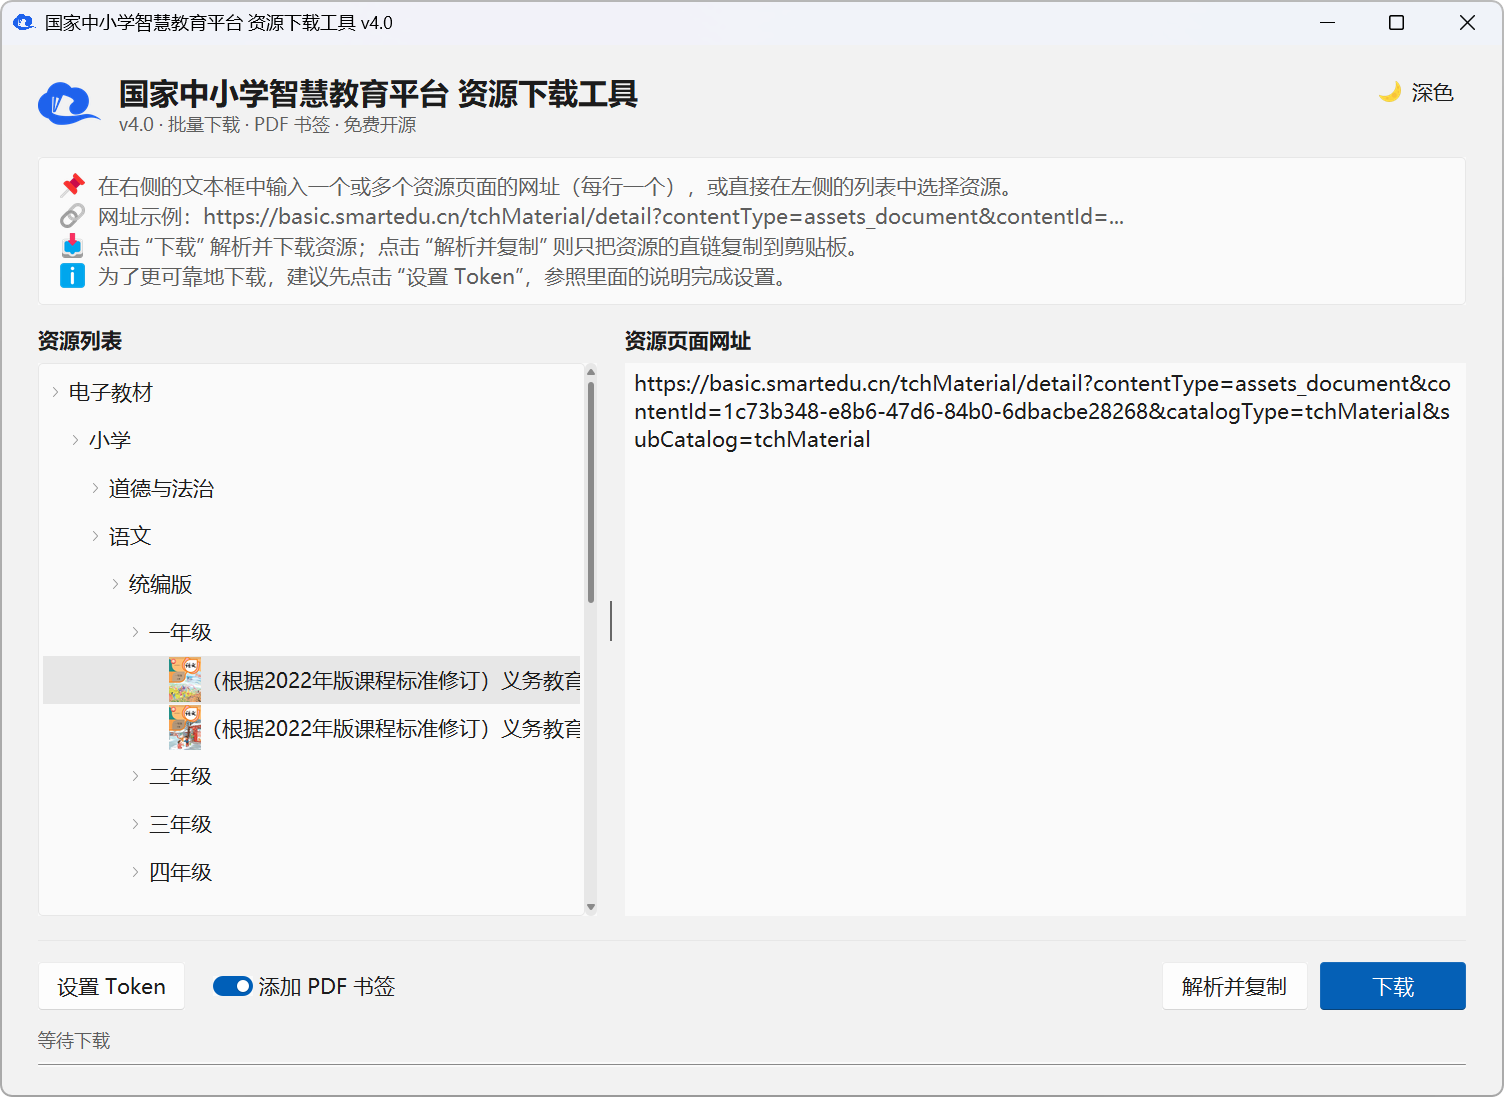
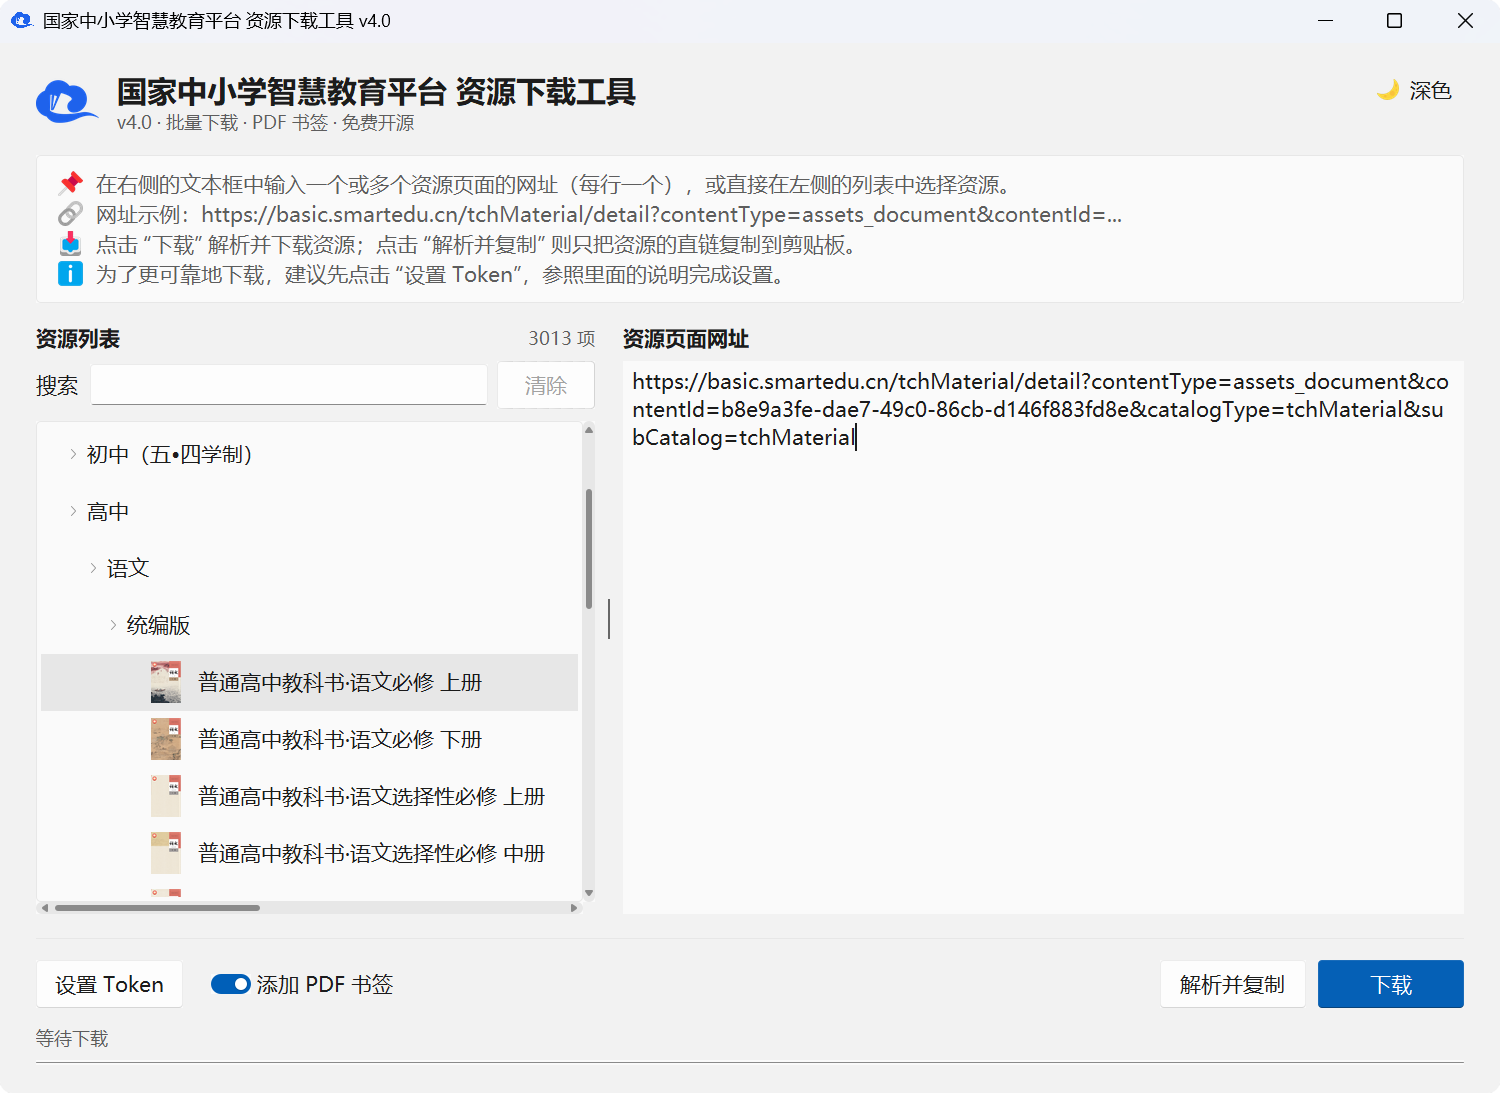
docs(readme): 重排版式、更新截图并补充项目成就
原 README 首屏只有三个静态徽章，没有项目标识与状态信息；内容增长后也缺少
导航入口。本次改动只涉及呈现方式，正文措辞、警告框、致谢与 issue 编号均
保持原样，未删减任何信息。

- 新增居中头部：Logo、一句话简介，以及版本、下载量、Star 数、Python 版本、
  支持平台、许可证徽章，并加入 Trendshift 徽章与快捷导航
- 新增目录。锚点按 GitHub 的生成规则处理：🛠、⚖ 这类带变体选择符的 emoji
  会被剥离图形部分但保留 U+FE0F，因此对应锚点为 #-使用方法、#-免责声明
- 新增「项目成就」章节：2025 年 5 月 GitHub Trending 总榜第 3 名、Trendshift
  Python 日榜第 3 名
- 浅色/深色截图由表格改为并排 <img width="48%">：GitHub 会强制为 markdown
  表格渲染单元格边框，border="0" 亦无效，只有脱离表格才能去掉边框
- 同步更新浅色/深色界面截图
- 常见问题改为 <details> 折叠块，首条默认展开
- 下载与安装方法新增速查表，集中列出各平台的安装命令
- 更新 Star History 的 sealed_token：GitHub 已将 stargazers 数据限制为仓库
  管理员与协作者可读，图表 URL 需随附凭证

diff --git a/README.md b/README.md
@@ -1,10 +1,50 @@
-# [国家中小学智慧教育平台 电子课本](https://basic.smartedu.cn/tchMaterial/)下载工具
+<div align="center">
 
-![Python Version](https://img.shields.io/badge/Python-3.x-blue.svg)
-![License](https://img.shields.io/badge/License-MIT-green.svg)
-![Made With Love❤](https://img.shields.io/badge/Made_With-%E2%9D%A4-red.svg)
+<img src="./assets/logo.png" alt="tchMaterial-parser Logo" width="128" />
 
-本工具可以帮助您从[**国家中小学智慧教育平台**](https://basic.smartedu.cn/)获取电子课本的 PDF 文件网址并进行下载，让您更方便地获取课本内容。
+# tchMaterial-parser
+
+**[国家中小学智慧教育平台](https://basic.smartedu.cn/)[电子课本](https://basic.smartedu.cn/tchMaterial/)下载工具**
+
+一键解析并批量下载电子课本 PDF，自动命名、自动添加书签，开箱即用。
+
+<br />
+
+[![GitHub Release](https://img.shields.io/github/v/release/happycola233/tchMaterial-parser?style=flat-square&color=4c8bf5&logo=github)](../../releases/latest)
+[![Downloads](https://img.shields.io/github/downloads/happycola233/tchMaterial-parser/total?style=flat-square&color=4c8bf5&label=downloads)](../../releases)
+[![Stars](https://img.shields.io/github/stars/happycola233/tchMaterial-parser?style=flat-square&color=f5a623)](../../stargazers)
+[![Python Version](https://img.shields.io/badge/Python-3.10+-3776ab?style=flat-square&logo=python&logoColor=white)](https://www.python.org/)
+[![Platform](https://img.shields.io/badge/Platform-Windows%20%7C%20Linux%20%7C%20macOS-lightgrey?style=flat-square)](../../releases)
+[![License](https://img.shields.io/badge/License-MIT-green.svg?style=flat-square)](LICENSE)
+
+[![Trendshift](https://trendshift.io/api/badge/repositories/13774)](https://trendshift.io/repositories/13774)
+
+[📥 下载安装](#-下载与安装方法) · [🛠 使用方法](#-使用方法) · [❓ 常见问题](#-常见问题) · [🐛 反馈问题](../../issues)
+
+</div>
+
+---
+
+<div align="center">
+
+<img src="./docs/images/main.png" alt="浅色模式下的工具截图" width="48%" />
+<img src="./docs/images/main_dark.png" alt="深色模式下的工具截图" width="48%" />
+
+<sub>☀ 浅色模式（左） &nbsp;·&nbsp; 🌙 深色模式（右）</sub>
+
+</div>
+
+## 📖 目录
+
+- [✨ 工具特点](#-工具特点)
+- [🏆 项目成就](#-项目成就)
+- [📥 下载与安装方法](#-下载与安装方法)
+- [🛠 使用方法](#-使用方法)
+- [❓ 常见问题](#-常见问题)
+- [⭐ Star History](#-star-history)
+- [🤝 贡献指南](#-贡献指南)
+- [⚖ 免责声明](#-免责声明)
+- [📜 许可证](#-许可证)
 
 ## ✨ 工具特点
 
@@ -12,16 +52,23 @@
 - 📂 **自动命名文件**：工具会自动使用电子课本的名称作为默认文件名，方便管理下载的课本文件。
 - 🔖 **自动添加书签**：若勾选了 “添加书签” 选项，则会在下载完成后为电子课本添加书签，在查看 PDF 时可更方便地跳转到指定位置。
 - 🔑 **支持 Access Token**：支持用户[手动输入 Access Token](#2--设置-access-token可选) 并自动保存，下次启动可自动加载。
-- 🔎 **教材快速搜索**：可按教材名称或“学段、学科、年级”等分类组合搜索，结果会自动展开；长名称支持横向滚动，悬停时可查看完整信息和大尺寸封面。
+- 🔎 **教材快速搜索**：可按教材名称或 “学段、学科、年级” 等分类组合搜索，结果会自动展开；长名称支持横向滚动，悬停时可查看完整信息和大尺寸封面。
 - 🖥 **高 DPI 适配**：优化 UI 以适配高分辨率屏幕，避免界面模糊问题。
 - 🌗 **深色模式**：启动时自动跟随系统的浅色/深色模式，也可点击右上角的按钮手动切换，切换结果会被记住。
 - 💻 **跨平台支持**：支持 Windows、Linux、macOS 等操作系统（需要图形界面）。
 
-| 浅色模式 | 深色模式 |
-| :-: | :-: |
-| ![浅色模式下的工具截图](./docs/images/main.png) | ![深色模式下的工具截图](./docs/images/main_dark.png) |
+## 🏆 项目成就
+
+感谢每一位使用者与贡献者，本项目曾于 2025 年 5 月登上 **GitHub Trending 总榜第 3 名**（单日新增约 400 Stars），并获得 [Trendshift](https://trendshift.io/repositories/13774) **Python 日榜第 3 名**。
 
 ## 📥 下载与安装方法
+
+| 方式 | 适用平台 | 获取途径 |
+| :-- | :-- | :-- |
+| 🐙 **GitHub Releases** | Windows / Linux / macOS（x86_64、Arm64） | [前往 Releases 页面](../../releases) |
+| 📦 **WinGet** | Windows 10 / 11 / Server 2025 | `winget install tchMaterial-parser` |
+| 🐧 **AUR** | Arch Linux | `yay -S tchmaterial-parser` |
+| 🐍 **从源码运行** | 任意平台（需 Python 3.10+） | [见下文](#从源码运行) |
 
 ### GitHub Releases
 
@@ -138,42 +185,71 @@ https://basic.smartedu.cn/tchMaterial/detail?contentType=assets_document&content
 
 若您勾选了 “**设置书签**” 复选框，则本工具会在课本下载完成后自动为其添加书签，在查看 PDF 时可快速跳转到指定位置。
 
+<div align="center">
+
 ![添加了书签的 PDF 文件](./docs/images/bookmark.png)
+
+</div>
 
 ## ❓ 常见问题
 
-### 1. ⚠ 为什么下载失败？
+<details open>
+<summary><b>1. ⚠ 为什么下载失败？</b></summary>
+
+<br />
 
 - 如果您没有设置 Access Token，可能是本工具使用的方法失效了，请[**设置 Access Token**](#2--设置-access-token可选)🔑。
 - 如果您设置了 Access Token，由于其具有时效性（一般为 7 天），因此极有可能是 **Access Token 过期了**，请重新获取新的 Access Token。
 - **确认网络连接是否正常**🌐，有时网络不稳定可能导致下载失败。
 - **确保输入的网址有效**🔗，部分旧资源可能已被移除。
 
-### 2. 💾 Access Token 保存在哪里？
+</details>
+
+<details>
+<summary><b>2. 💾 Access Token 保存在哪里？</b></summary>
+
+<br />
 
 - **Windows**：Token 会存储在**注册表** `HKEY_CURRENT_USER\Software\tchMaterial-parser` 项中的 `AccessToken` 值。
-- **Linux**: Token 会存储在**文件** `~/.config/tchMaterial-parser/data.json` 中。
+- **Linux**：Token 会存储在**文件** `~/.config/tchMaterial-parser/data.json` 中。
 - **macOS**：Token 会存储在**文件** `~/Library/Application Support/tchMaterial-parser/data.json` 中。
 - **其他操作系统**：目前不受支持。
 
-### 3. 🔐 Token 会不会泄露？
+</details>
+
+<details>
+<summary><b>3. 🔐 Token 会不会泄露？</b></summary>
+
+<br />
 
 - 本工具**不会上传** Token，也不会存储在云端，仅用于本地请求授权。
 - **请勿在公开场合分享 Token**，以免您的账号被他人使用，造成严重后果。
 
+</details>
+
 ## ⭐ Star History
 
+<div align="center">
 <a href="https://www.star-history.com/?repos=happycola233%2FtchMaterial-parser&type=date&legend=top-left">
  <picture>
-   <source media="(prefers-color-scheme: dark)" srcset="https://api.star-history.com/chart?repos=happycola233/tchMaterial-parser&type=date&theme=dark&legend=top-left&sealed_token=rHSHeJm9apLZ5Joxfm_nKzQRzW4EQw8dyYHQIl5FSwpAfvm9WUwaMj4vQGTKluRUKTQq7IC7__9VDfWZMNnFWxZrVAs0hQBSINIWWdzocR3AqO4iP4R2EA" />
-   <source media="(prefers-color-scheme: light)" srcset="https://api.star-history.com/chart?repos=happycola233/tchMaterial-parser&type=date&legend=top-left&sealed_token=rHSHeJm9apLZ5Joxfm_nKzQRzW4EQw8dyYHQIl5FSwpAfvm9WUwaMj4vQGTKluRUKTQq7IC7__9VDfWZMNnFWxZrVAs0hQBSINIWWdzocR3AqO4iP4R2EA" />
-   <img alt="Star History Chart" src="https://api.star-history.com/chart?repos=happycola233/tchMaterial-parser&type=date&legend=top-left&sealed_token=rHSHeJm9apLZ5Joxfm_nKzQRzW4EQw8dyYHQIl5FSwpAfvm9WUwaMj4vQGTKluRUKTQq7IC7__9VDfWZMNnFWxZrVAs0hQBSINIWWdzocR3AqO4iP4R2EA" />
+   <source media="(prefers-color-scheme: dark)" srcset="https://api.star-history.com/chart?repos=happycola233/tchMaterial-parser&type=date&theme=dark&legend=top-left&sealed_token=lp-dz0jwomojnfZdkKWtPYjxu2cIaluD151Uh_sKuhgbIy1MAw4WMMHg9KPtHrdNSur9Z6j6P4cR0NAR7-8vT_ttSDIBynMuDVy5ljc73IMV_4RAyLzs1GtoC6yH3QNnQtQahl8r9J2REXs-NNJ7Pu55SQ2X52m6JNy5v91zdGypyXAi758su9beu7pb" />
+   <source media="(prefers-color-scheme: light)" srcset="https://api.star-history.com/chart?repos=happycola233/tchMaterial-parser&type=date&legend=top-left&sealed_token=lp-dz0jwomojnfZdkKWtPYjxu2cIaluD151Uh_sKuhgbIy1MAw4WMMHg9KPtHrdNSur9Z6j6P4cR0NAR7-8vT_ttSDIBynMuDVy5ljc73IMV_4RAyLzs1GtoC6yH3QNnQtQahl8r9J2REXs-NNJ7Pu55SQ2X52m6JNy5v91zdGypyXAi758su9beu7pb" />
+   <img alt="Star History Chart" src="https://api.star-history.com/chart?repos=happycola233/tchMaterial-parser&type=date&legend=top-left&sealed_token=lp-dz0jwomojnfZdkKWtPYjxu2cIaluD151Uh_sKuhgbIy1MAw4WMMHg9KPtHrdNSur9Z6j6P4cR0NAR7-8vT_ttSDIBynMuDVy5ljc73IMV_4RAyLzs1GtoC6yH3QNnQtQahl8r9J2REXs-NNJ7Pu55SQ2X52m6JNy5v91zdGypyXAi758su9beu7pb" />
  </picture>
 </a>
+</div>
 
 ## 🤝 贡献指南
 
-如果您发现 Bug 或有改进建议，欢迎提交 **Issue** 或 **Pull Request**，让我们一起完善本工具！
+如果您发现 Bug 或有改进建议，欢迎提交 **[Issue](../../issues)** 或 **[Pull Request](../../pulls)**，让我们一起完善本工具！
+
+感谢所有为本项目做出贡献的朋友：
+
+<div align="center">
+<a href="https://github.com/happycola233/tchMaterial-parser/graphs/contributors">
+  <img src="https://contrib.rocks/image?repo=happycola233/tchMaterial-parser" alt="Contributors" />
+</a>
+</div>
 
 ## ⚖ 免责声明
 
@@ -189,3 +265,8 @@ https://basic.smartedu.cn/tchMaterial/detail?contentType=assets_document&content
 ## 💌 友情链接
 
 - 📚 您也可以在 [ChinaTextbook](https://github.com/TapXWorld/ChinaTextbook) 项目中下载归档的电子课本 PDF。
+
+<div align="center">
+<br />
+<sub>如果这个工具对您有帮助，欢迎点一个 ⭐ Star 支持一下！</sub>
+</div>
